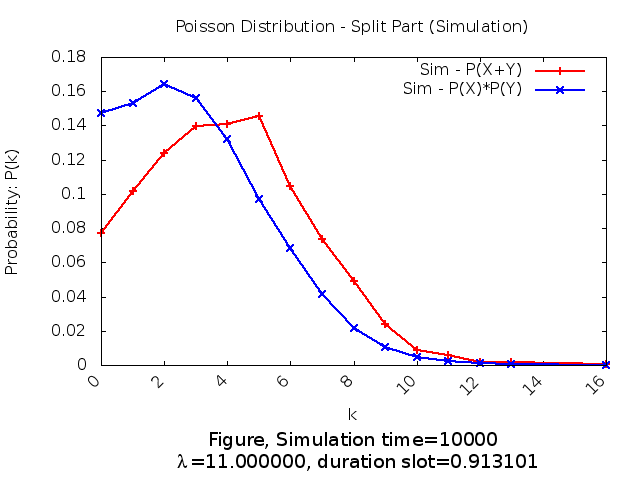
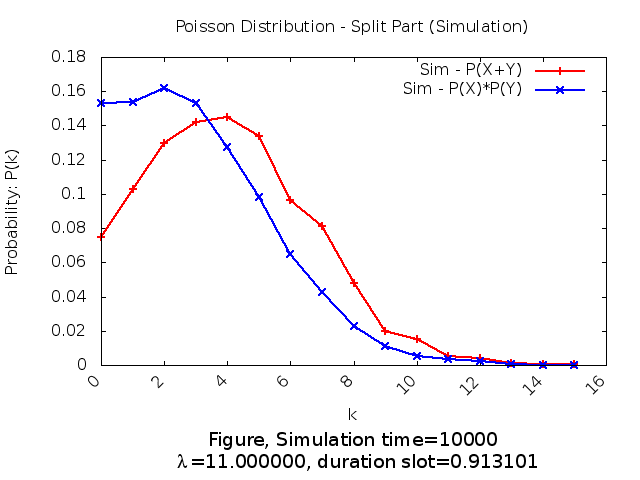
Add difference of different conditions.

diff --git a/poisson_distribution/part_b.cc b/poisson_distribution/part_b.cc
@@ -52,7 +52,7 @@ int main(int argc,char *argv[]) {
 
   event_type S;
   // init with rand
-  if(gen->frand(0,1)>p) {
+  if(gen->frand(0,l)>=(l*p)) {
     // become Y event
     elist->set(0,std::string("Y"));
   } else {
@@ -64,7 +64,7 @@ int main(int argc,char *argv[]) {
     // pop out
     if(elist->get(S)) {
       // Using probability P to decide which event will be push
-      if(gen->frand(0,1)>p) {
+      if(gen->frand(0,l)>=(l*p)) {
         // become Y event
         // elist->set(gen->exponential(l*(1-p)),std::string("Y"));
         elist->set(dist_2(generator),std::string("Y"));

diff --git a/poisson_distribution/README.md b/poisson_distribution/README.md
@@ -10,12 +10,12 @@
             - [Simulation Model](#simulation-model)
                 - [Implementation Detail](#implementation-detail)
             - [Result](#result)
-            - [Difference (TODO)](#difference-todo)
+            - [Difference](#difference)
         - [Example 3.23 (Split)](#example-323-split)
             - [Mathematic Model](#mathematic-model-1)
             - [Simulation Model](#simulation-model-1)
             - [Result](#result-1)
-            - [Difference (TODO)](#difference-todo-1)
+            - [Difference](#difference-1)
     - [Reference](#reference)
     - [Author](#author)
 
@@ -123,7 +123,24 @@ P(Y=n-k) &=&\frac{e^{-(\lambda_2)}}{(n-k)!} \cdot (\lambda_2)^{n-k}
 
 * We can see, both `mathematic` and `simulation` model all have the same curve in **`P(X+Y)`** and **`P(X)*P(Y)`**
 
-#### Difference (TODO)
+#### Difference 
+
+* After we have finished the `part_a.cc` and compile it to get the executable file, we now can use it to run **`multiple testcase`** - [***test.sh***](test.sh)
+
+| case | simulation times  | $$\lambda_1$$ | $$\lambda_2$$ | result |
+| ------------- | ------------- | ------------- | ------------- | ------------- |
+| 1 | 10000  | 1  | 2 | ![](image/part_a_sim_10000_1_2.png) |
+| 2 | 10000  | 1  | 5 | ![](image/part_a_sim_10000_1_5.png) |
+| 3 | 10000 | 1 | 10 | ![](image/part_a_sim_10000_1_10.png) |
+| 4 | 10000 | 10 | 20 | ![](image/part_a_sim_10000_10_20.png) |
+| 5 | 100000 | 10 | 20 | ![](image/part_a_sim_100000_10_20.png) |
+
+* Parameters:
+    * `simulation times` represent the **number** of total event in simulation process.
+    * `lambda_1` represent the lambda in `X`.
+    * `lambda_2` represent the lambda in `Y`.
+
+* As the result shown above, we can see `P(S=X+Y)` is almost perfectly match with `P(X)*P(Y)`; And we can see in case 4, these 2 curves are quite not matching with each other; But after increase the total event number, then we can see these 2 curves are matching again.
 
 --- 
 
@@ -168,11 +185,50 @@ The **differences** between them are:
 
 * We can see, both `mathematic` and `simulation` model have almost  the same curve in **`P(X+Y)`** and **`P(X)*P(Y)`**, but not match.
 
-#### Difference (TODO)
+#### Difference
+
+* After we have finished the `part_b.cc` and compile it to get the executable file, we now can use it to run **`multiple testcase`** - [***test.sh***](test.sh)
+
+> Notice, Part A and Part B use the same script.
+
+| case | simulation times  | $$\lambda$$ | $$P$$ | result |
+| ------------- |  ------------- | ------------- | ------------- | ------------- |
+| 1 | 10000  | 3  | 0.5 | ![](image/part_b_sim_10000_3.000000_0.500000.png) |
+| 2 | 10000  | 6  | 0.3 | ![](image/part_b_sim_10000_6.000000_0.300000.png) |
+| 3 | 10000  | 6  | 0.5 | ![](image/part_b_sim_10000_6.000000_0.500000.png) |
+| 4 | 10000  | 6  | 0.7 | ![](image/part_b_sim_10000_6.000000_0.700000.png) |
+| 5 | 10000  | 11  | 0.3 | ![](image/part_b_sim_10000_11.000000_0.300000.png) |
+| 6 | 10000  | 11  | 0.5 | ![](image/part_b_sim_10000_11.000000_0.500000.png) |
+| 7 | 10000  | 11  | 0.7 | ![](image/part_b_sim_10000_11.000000_0.700000.png) |
+| 8 | 10000  | 30  | 0.3 | ![](image/part_b_sim_10000_30.000000_0.300000.png) |
+| 9 | 10000  | 30  | 0.5 | ![](image/part_b_sim_10000_30.000000_0.500000.png) |
+| 10 | 10000  | 30  | 0.7 | ![](image/part_b_sim_10000_30.000000_0.700000.png) |
+| 11 | 100000  | 30  | 0.3 | ![](image/part_b_sim_100000_30.000000_0.300000.png) |
+| 12 | 100000  | 30  | 0.5 | ![](image/part_b_sim_100000_30.000000_0.500000.png) |
+| 13 |100000  | 30  | 0.7 | ![](image/part_b_sim_100000_30.000000_0.700000.png) |
+
+* And there are a more large number of `simulation times`:
+
+| simulation times  | $$\lambda$$ | $$P$$ | result |
+| ------------- | ------------- | ------------- | ------------- |
+| 1000000  | 30  | 0.5 | ![](image/part_b_sim_1000000_30.000000_0.500000.png) |
+
+* Parameters:
+    * `simulation times` represent the **number** of total event in simulation process.
+    * `lambda_1` represent the lambda in `X`.
+    * `lambda_2` represent the lambda in `Y`.
+
+* Different from `Part A`, those 2 curves in simulation of `Part B` do not match.
+
+* The reason of this indication I think is supposed to be the `random number` to decide this new arrival event will be **"X"** or **"Y"**, this unstable factor will cause this bias on these 2 curves.
+
+--- 
 
 ## Reference
 
 * [Basic Concept of Poisson Process](https://www.probabilitycourse.com/chapter11/11_1_2_basic_concepts_of_the_poisson_process.php)
+
+--- 
 
 ## Author 
 
